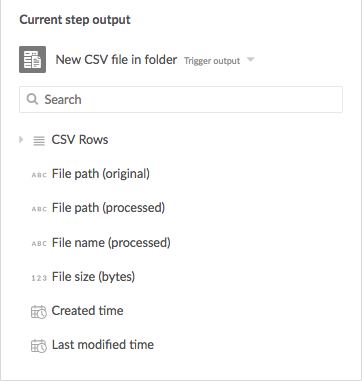
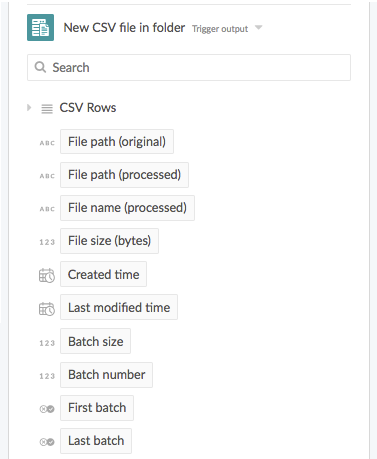
address PR comments

diff --git a/connectors/on-prem-files/trigger-new-csv.md b/connectors/on-prem-files/trigger-new-csv.md
@@ -10,49 +10,50 @@ date: 2018-05-15 06:00:00 Z
 ## 1. How it works
 This trigger monitors an on-premises folder. Based on a schedule you define, this trigger will check if there is a new CSV file inside that folder. It will read that CSV file and output the file metadata and CSV rows.
 
-This trigger is useful when you have an on-premises folder, which you frequently add CSV files inside (e.g. weekly sales reports, daily data dumps from other systems). Then you want to read those files and import the records to other system (e.g. Saleforce, databases).
+Use this trigger when you have an on-premises folder to which you frequently add CSV files. Examples of these files could be weekly sales reports or daily data dumps from other systems. Using this trigger, you can build a recipe to read those files and import the records into other system (e.g. Salesforce, databases).
 
-Note that this trigger supports [batching](https://docs.workato.com/features/batch-processing.html), which allows you to process huge amount of data in shorter time.
+**Important Notes**:
+- This trigger supports [batching](https://docs.workato.com/features/batch-processing.html), which allows you to process huge amount of data in shorter time.
 
-One thing to note is that every time this trigger processes a file, it will **rename the file** and append the text `processing` at the end of file name. This is to prevent the trigger from picking up the file again in the next run, and make sure it only pickup new file in folder.
+- Every time this trigger processes a file, it will **rename the file** and append the text `processing` at the end of file name. This is to prevent the trigger from picking up the file again in the next run, and make sure it only pickup new file in folder.
 
 ![Trigger renames files when processing](/assets/images/connectors/on-prem-files/trigger-csv-processing.gif)
 *Trigger renames files when processing them*
 
 ## 2. Input fields
-For this trigger to work, you need to config 4 sections:
+For this trigger to work, you need to configure 4 sections:
 1. Schedule settings
 2. Folder settings
 3. CSV settings
 4. Batch size
 
 ### 2.1 Schedule settings
-Config this to tell the trigger how often it should check for new CSV file in on-premises folder. There are 2 ways to schedule: **interval** and **date/time**.
+Configure this to tell the trigger how often it should check for new CSV file in on-premises folder. There are 2 ways to schedule: **interval** and **date/time**.
 
-Using **interval**, you will tell the trigger to check every certain minutes.
+Using **interval**, you are telling the trigger to check after certain amount of time.
 
 ![Interval schedule](/assets/images/connectors/on-prem-files/trigger-interval.png)
 
-Using **date/time**, you will tell the trigger to check at specific time every day.
+Using **date/time**, you are telling the trigger to check at specific time every day.
 
 ![Date/time schedule](/assets/images/connectors/on-prem-files/trigger-schedule.png)
 
-Optionally, you can choose which days of the week the trigger should check. Use `Add/remove optional fields` at the bottom of the form to add this.
+Optionally, you can choose which days of the week the trigger should run. Use `Add/remove optional fields` at the bottom of the form to add this.
 
 ![Add/remove optional fields](/assets/images/connectors/on-prem-files/add-remove-optional-fields.png)
 ![Days of week](/assets/images/connectors/on-prem-files/trigger-schedule-days.png)
 
 ### 2.2 Folder settings
-Config this to specify which on-premises folder the trigger should monitor for new CSV file.
+Configure this to specify which on-premises folder the trigger should monitor for new CSV file.
 
 ![Folder settings](/assets/images/connectors/on-prem-files/trigger-folder-settings.png)
 
-Optionally, you can define a [naming pattern](https://docs.workato.com/features/wildcard.html) so trigger only pick up files with certain names. Enable this input field using `Add/remove optional fields` at the bottom of the form.
+Optionally, you can define a [naming pattern](https://docs.workato.com/features/wildcard.html) so the trigger only pick up files with certain names. Enable this input field using `Add/remove optional fields` at the bottom of the form.
 
- ![Filename patterns](/assets/images/connectors/on-prem-files/filename-patterns.png)
+![Filename patterns](/assets/images/connectors/on-prem-files/filename-patterns.png)
 
 ### 2.3 CSV settings
-Config this so the trigger will understand the structure of your CSV file. It is recommended that you upload a sample CSV file for fast and accurate setup.
+Configure this so the trigger will understand the structure of your CSV file. It is recommended that you upload a sample CSV file for fast and accurate setup.
 
 ![CSV file settings](/assets/images/connectors/on-prem-files/trigger-csv-settings.png)
 
@@ -61,7 +62,9 @@ Lastly, set a batch size. Batch size determines how many CSV rows trigger will p
 
 ![Batch size](/assets/images/connectors/on-prem-files/batch-size.png)
 
-This is useful when you want to import the data from your CSV files into other apps, for example Salesforce or databases. Larger batch size will speed up this data import. However, those apps will often have API limit of how much data they can receive at once. Therefore, try to experiment with different batch sizes to see what works best for you.
+This is useful when you want to import the data from your CSV files into other apps like Salesforce or databases. Larger batch size will speed up this data import.
+
+However, apps will often have an API limit of how much data they can receive at once. Therefore, try to experiment with different batch sizes or check the apps' API limits to see what works best for you.
 
 ## 3. Output
 The following is how this trigger's output looks like:
@@ -77,3 +80,7 @@ The following is how this trigger's output looks like:
 | File size (bytes) | File size in bytes. |
 | Created time | The time the file was created. |
 | Last modified time | The time the file was last modified. |
+| Batch size | The [batch](https://docs.workato.com/features/batch-processing.html) size that you have set in the input. |
+| Batch number | Trigger divides the CSV rows into multiple batches, then assign each batch to a job for processing. `Batch number` shows ID of the batch that a job is processing. Useful when you need to debug in [job report](https://docs.workato.com/recipes/jobs.html#job-details).<br><br>Learn more about [batching here](https://docs.workato.com/features/batch-processing.html).|
+| First batch | `True` if this is the first batch. Otherwise `False`. Useful when you need to debug in [job report](https://docs.workato.com/recipes/jobs.html#job-details).|
+| Last batch | `True` if this is the last batch. Otherwise `False`. Useful when you need to debug in [job report](https://docs.workato.com/recipes/jobs.html#job-details).|

diff --git a/connectors/on-prem-files/trigger-new-file.md b/connectors/on-prem-files/trigger-new-file.md
@@ -11,44 +11,45 @@ date: 2018-05-15 06:00:00 Z
 ## 1. How it works
 This trigger monitors an on-premises folder. Based on a schedule you define, this trigger will check if there is a new file inside that folder. It will read that file and output the file metadata and file contents.
 
-This trigger is useful when you have an on-premises folder, which you frequently add files inside (e.g. weekly sales reports, daily database dumps). Then you want to transfer those files to other file storage systems (e.g. Amazon S3, SFTP).
+Use this trigger when you have an on-premises folder to which you frequently add files. Examples of these files could be weekly sales reports, marketing videos, daily data dumps from other systems. Using this trigger, you can build a recipe to copy those files and transfer to other file storage systems (e.g. Amazon S3, SFTP).
 
-Note that this trigger supports [streaming](https://docs.workato.com/features/file-streaming.html), which allows you to transfer huge files from your on-premises system to other systems.
+**Important Notes**:
+- This trigger supports [streaming](https://docs.workato.com/features/file-streaming.html), which allows you to transfer huge files from your on-premises system to other systems.
 
-One thing to note is that every time this trigger processes a file, it will **rename the file** and append the text `processing` at the end of file name. This is to prevent the trigger from picking up the file again in the next run, and make sure it only pickup new file in folder.
+- Every time this trigger processes a file, it will **rename the file** and append the text `processing` at the end of file name. This is to prevent the trigger from picking up the file again in the next run, and make sure it only pickup new file in folder.
 
 ![Trigger renames files when processing](/assets/images/connectors/on-prem-files/trigger-file-processing.gif)
 *Trigger renames files when processing them*
 
 ## 2. Input fields
-For this trigger to work, you need to config 2 main sections:
+For this trigger to work, you need to configure 2 main sections:
 1. Schedule settings
 2. Folder settings
 
 ### 2.1 Schedule settings
-Config this to tell the trigger how often it should check for new file in on-premises folder. There are 2 ways to schedule: **interval** and **date/time**.
+Configure this to tell the trigger how often it should check for new file in on-premises folder. There are 2 ways to schedule: **interval** and **date/time**.
 
-Using **interval**, you will tell the trigger to check every certain minutes.
+Using **interval**, you are telling the trigger to check after certain amount of time.
 
 ![Interval schedule](/assets/images/connectors/on-prem-files/trigger-interval.png)
 
-Using **date/time**, you will tell the trigger to check at specific time every day.
+Using **date/time**, you are telling the trigger to check at specific time every day.
 
 ![Date/time schedule](/assets/images/connectors/on-prem-files/trigger-schedule.png)
 
-Optionally, you can choose which days of the week the trigger should check. Use `Add/remove optional fields` at the bottom of the form to add this.
+Optionally, you can choose which days of the week the trigger should run. Use `Add/remove optional fields` at the bottom of the form to add this.
 
 ![Add/remove optional fields](/assets/images/connectors/on-prem-files/add-remove-optional-fields.png)
 ![Days of week](/assets/images/connectors/on-prem-files/trigger-schedule-days.png)
 
 ### 2.2 Folder settings
-Config this to specify which on-premises folder the trigger should monitor for new file.
+Configure this to specify which on-premises folder the trigger should monitor for new file.
 
 ![Folder settings](/assets/images/connectors/on-prem-files/trigger-folder-settings.png)
 
-Optionally, you can define a [naming pattern](https://docs.workato.com/features/wildcard.html) so trigger only pick up files with certain names. Enable this input field using `Add/remove optional fields` at the bottom of the form.
+Optionally, you can define a [naming pattern](https://docs.workato.com/features/wildcard.html) so the trigger only pick up files with certain names. Enable this input field using `Add/remove optional fields` at the bottom of the form.
 
- ![Filename patterns](/assets/images/connectors/on-prem-files/filename-patterns.png)
+![Filename patterns](/assets/images/connectors/on-prem-files/filename-patterns.png)
 
 ### 2.3 Other settings
 #### Chunk size

diff --git a/features/file-streaming.md b/features/file-streaming.md
@@ -3,13 +3,13 @@ title: Workato connectors - File streaming
 date: 2018-05-23 06:00:00 Z
 ---
 
-#File Streaming
+# File Streaming
 Enterprises often have the need to transfer large files of gigabyte-size from one system to another. For example, copying daily database dumps from Amazon S3 to SFTP file storage.
 
-Traditional approach to file transfer usually limits the file size or requires large server. With Workato, the `File streaming` mechanism allows you to transfer files of unlimited size between different systems easily, without any special setup.
+Traditional approaches to file transfer usually limit the file size or require large server for processing. With Workato, the `File streaming` mechanism allows you to transfer files of unlimited size between different systems easily, without any setup.
 
 ## 1. How it works
-When transferring a larger file, Workato automatically cuts the file into smaller chunks, then sends 1 chunk at a time to the destination. This allows each chunk to easily fit in Workato's server memory. As a result, the same server can transfer files of any size.
+When transferring a large file, Workato automatically breaks the file into smaller chunks, then sends one chunk at a time to the destination. This allows each chunk to easily fit in Workato's server memory. As a result, the same server can transfer files of any size.
 
 The following diagram illustrates how this works:
 

diff --git a/connectors/on-prem-files.md b/connectors/on-prem-files.md
@@ -4,7 +4,7 @@ date: 2018-05-15 06:00:00 Z
 ---
 
 # On-premises Files
-Enterprises often have files that are stored on premises, within their internal systems and behind the corporate firewalls.
+Enterprises often have files that are stored on premises. These files are within the corporate internal systems and behind the corporate firewalls.
 
 Workato's `On-prem files` connector allows you to securely connect to those on-premises files and build automation around them.
 
@@ -19,7 +19,7 @@ In this example, we create a connection profile named `myfiles`. The address bel
 
 ![On-prem files connection profile](/assets/images/connectors/on-prem-files/connection-profile.png)
 
-3) [Run the on-prem agent](https://docs.workato.com/on-prem/run.html). Then check this [on-prem agent management page](https://www.workato.com/secure_agents) and make sure your agent is `Active`.
+3) [Run the on-prem agent](https://docs.workato.com/on-prem/run.html). Then check your [on-prem agent management page](https://www.workato.com/secure_agents) and make sure your agent is `Active`.
 
 ![On-prem agent management page](/assets/images/connectors/on-prem-files/OPA-page.png)
 
